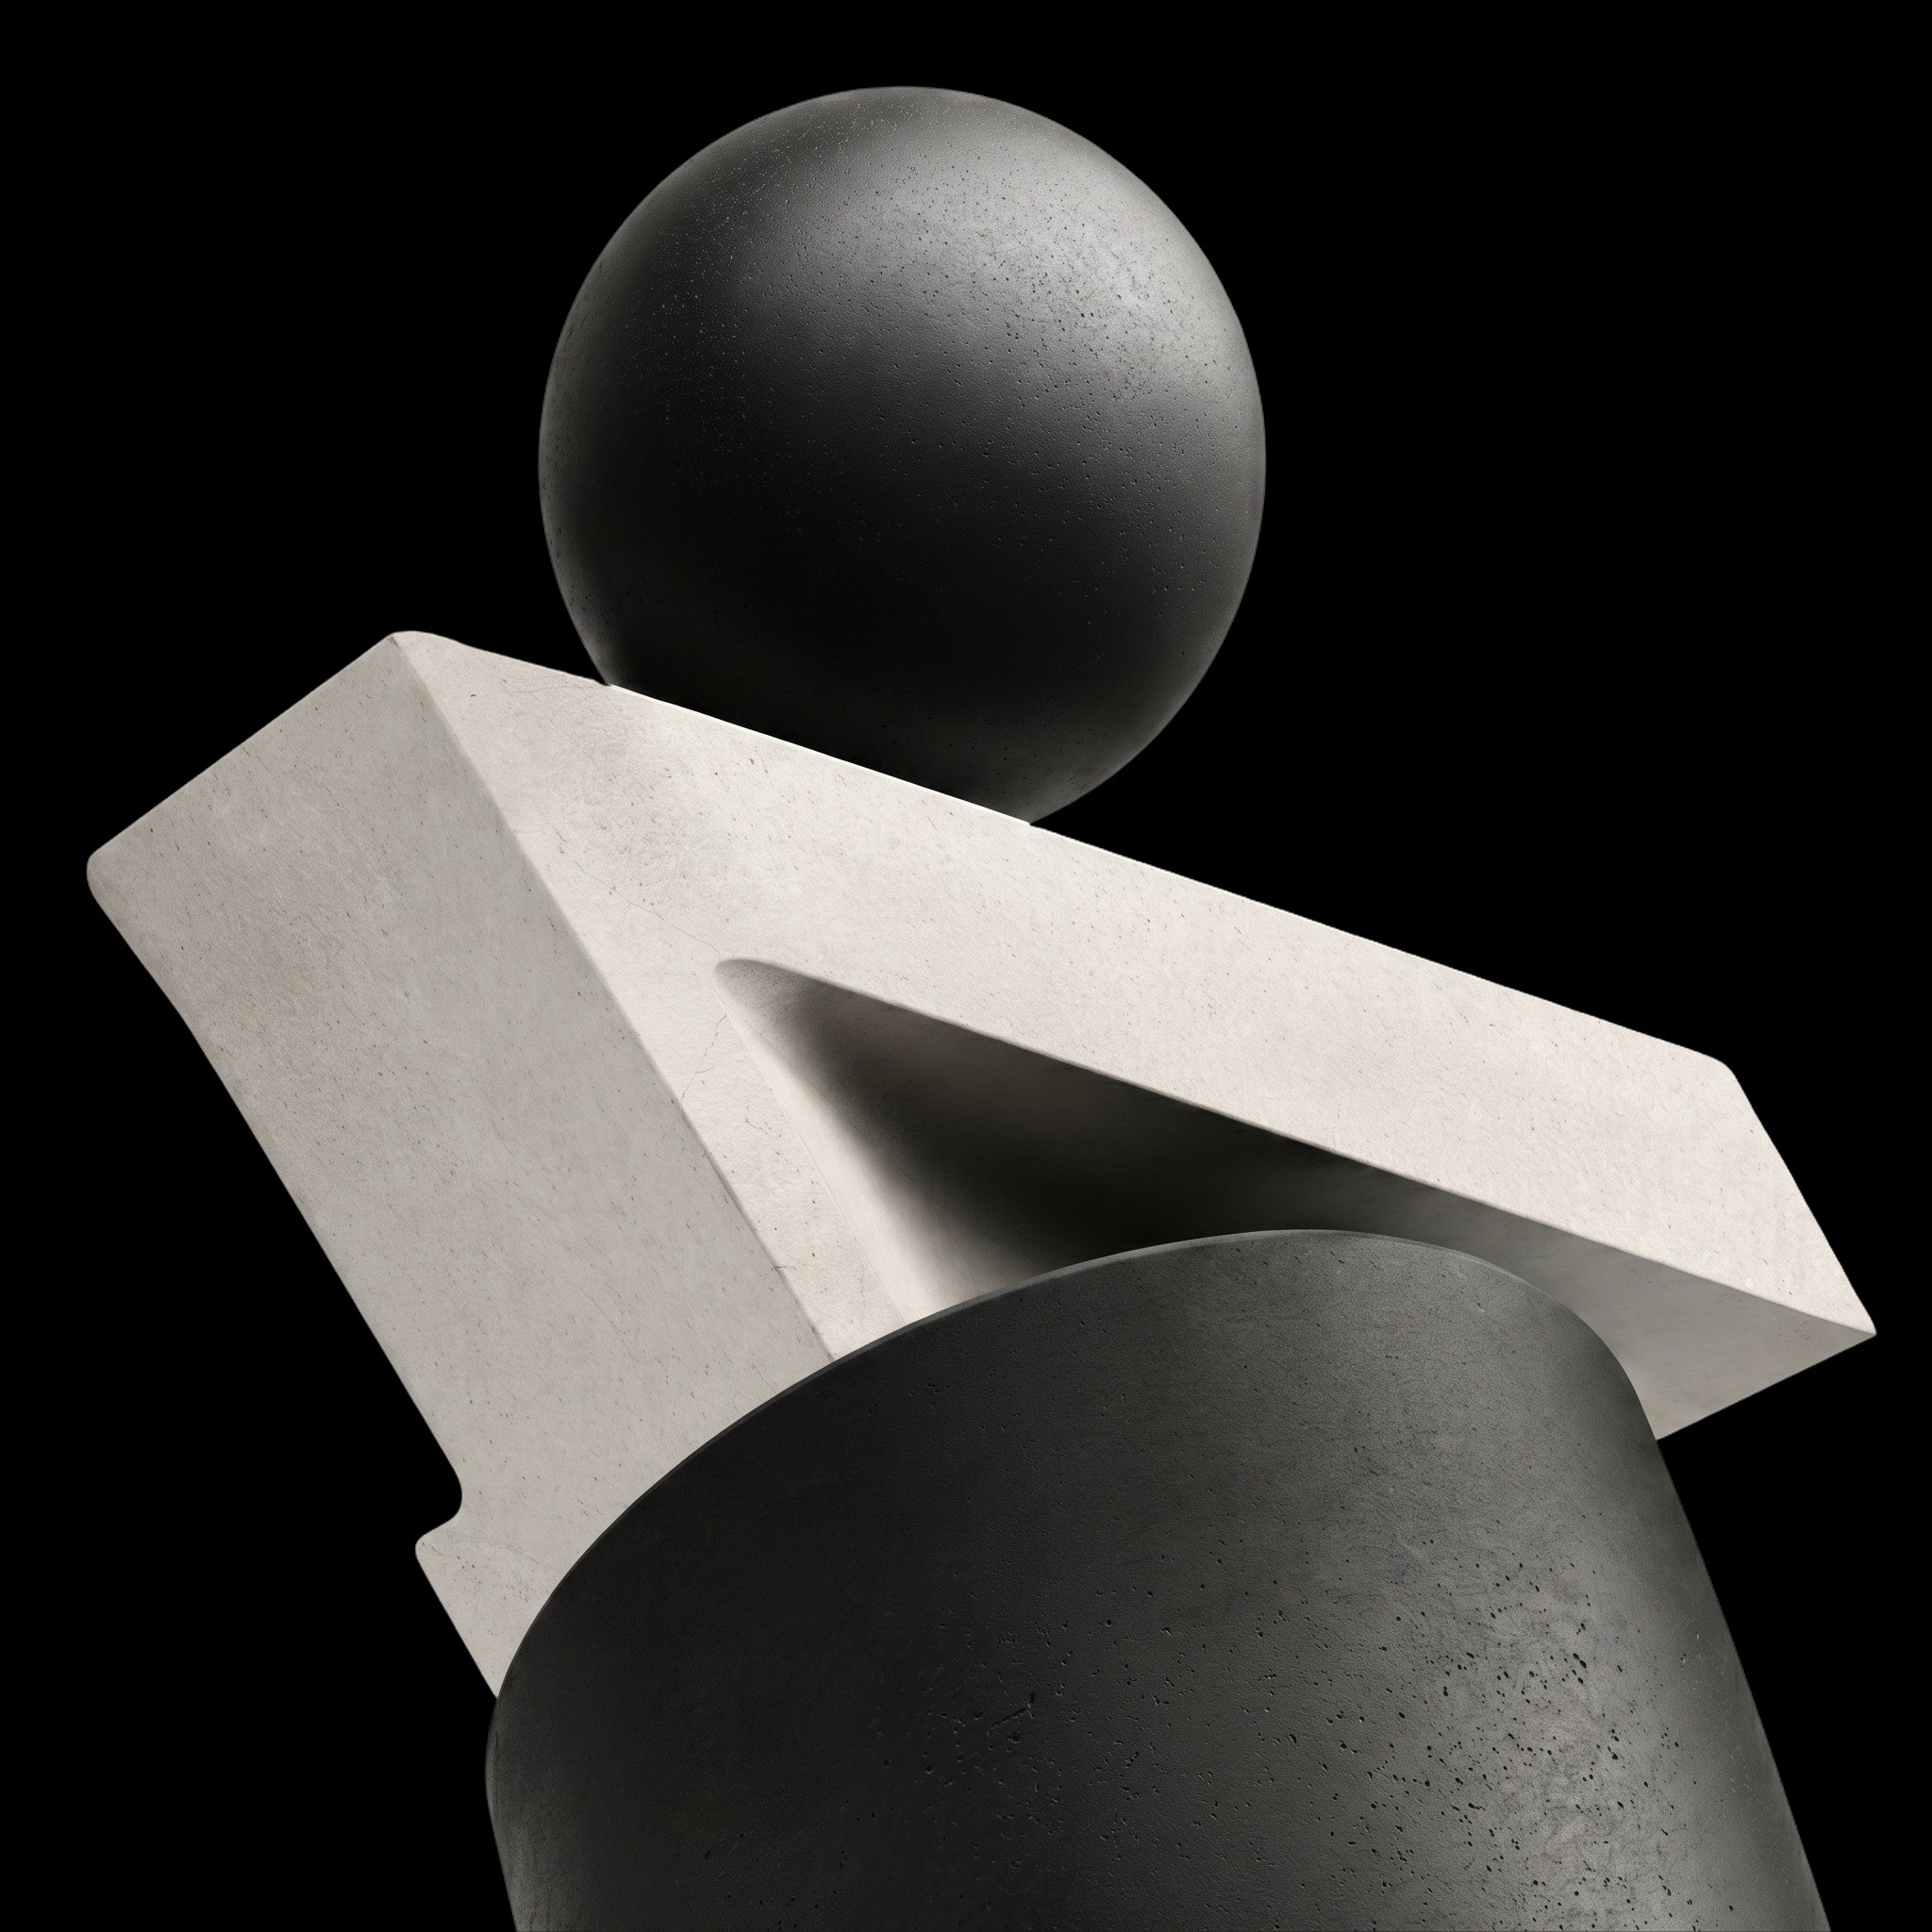
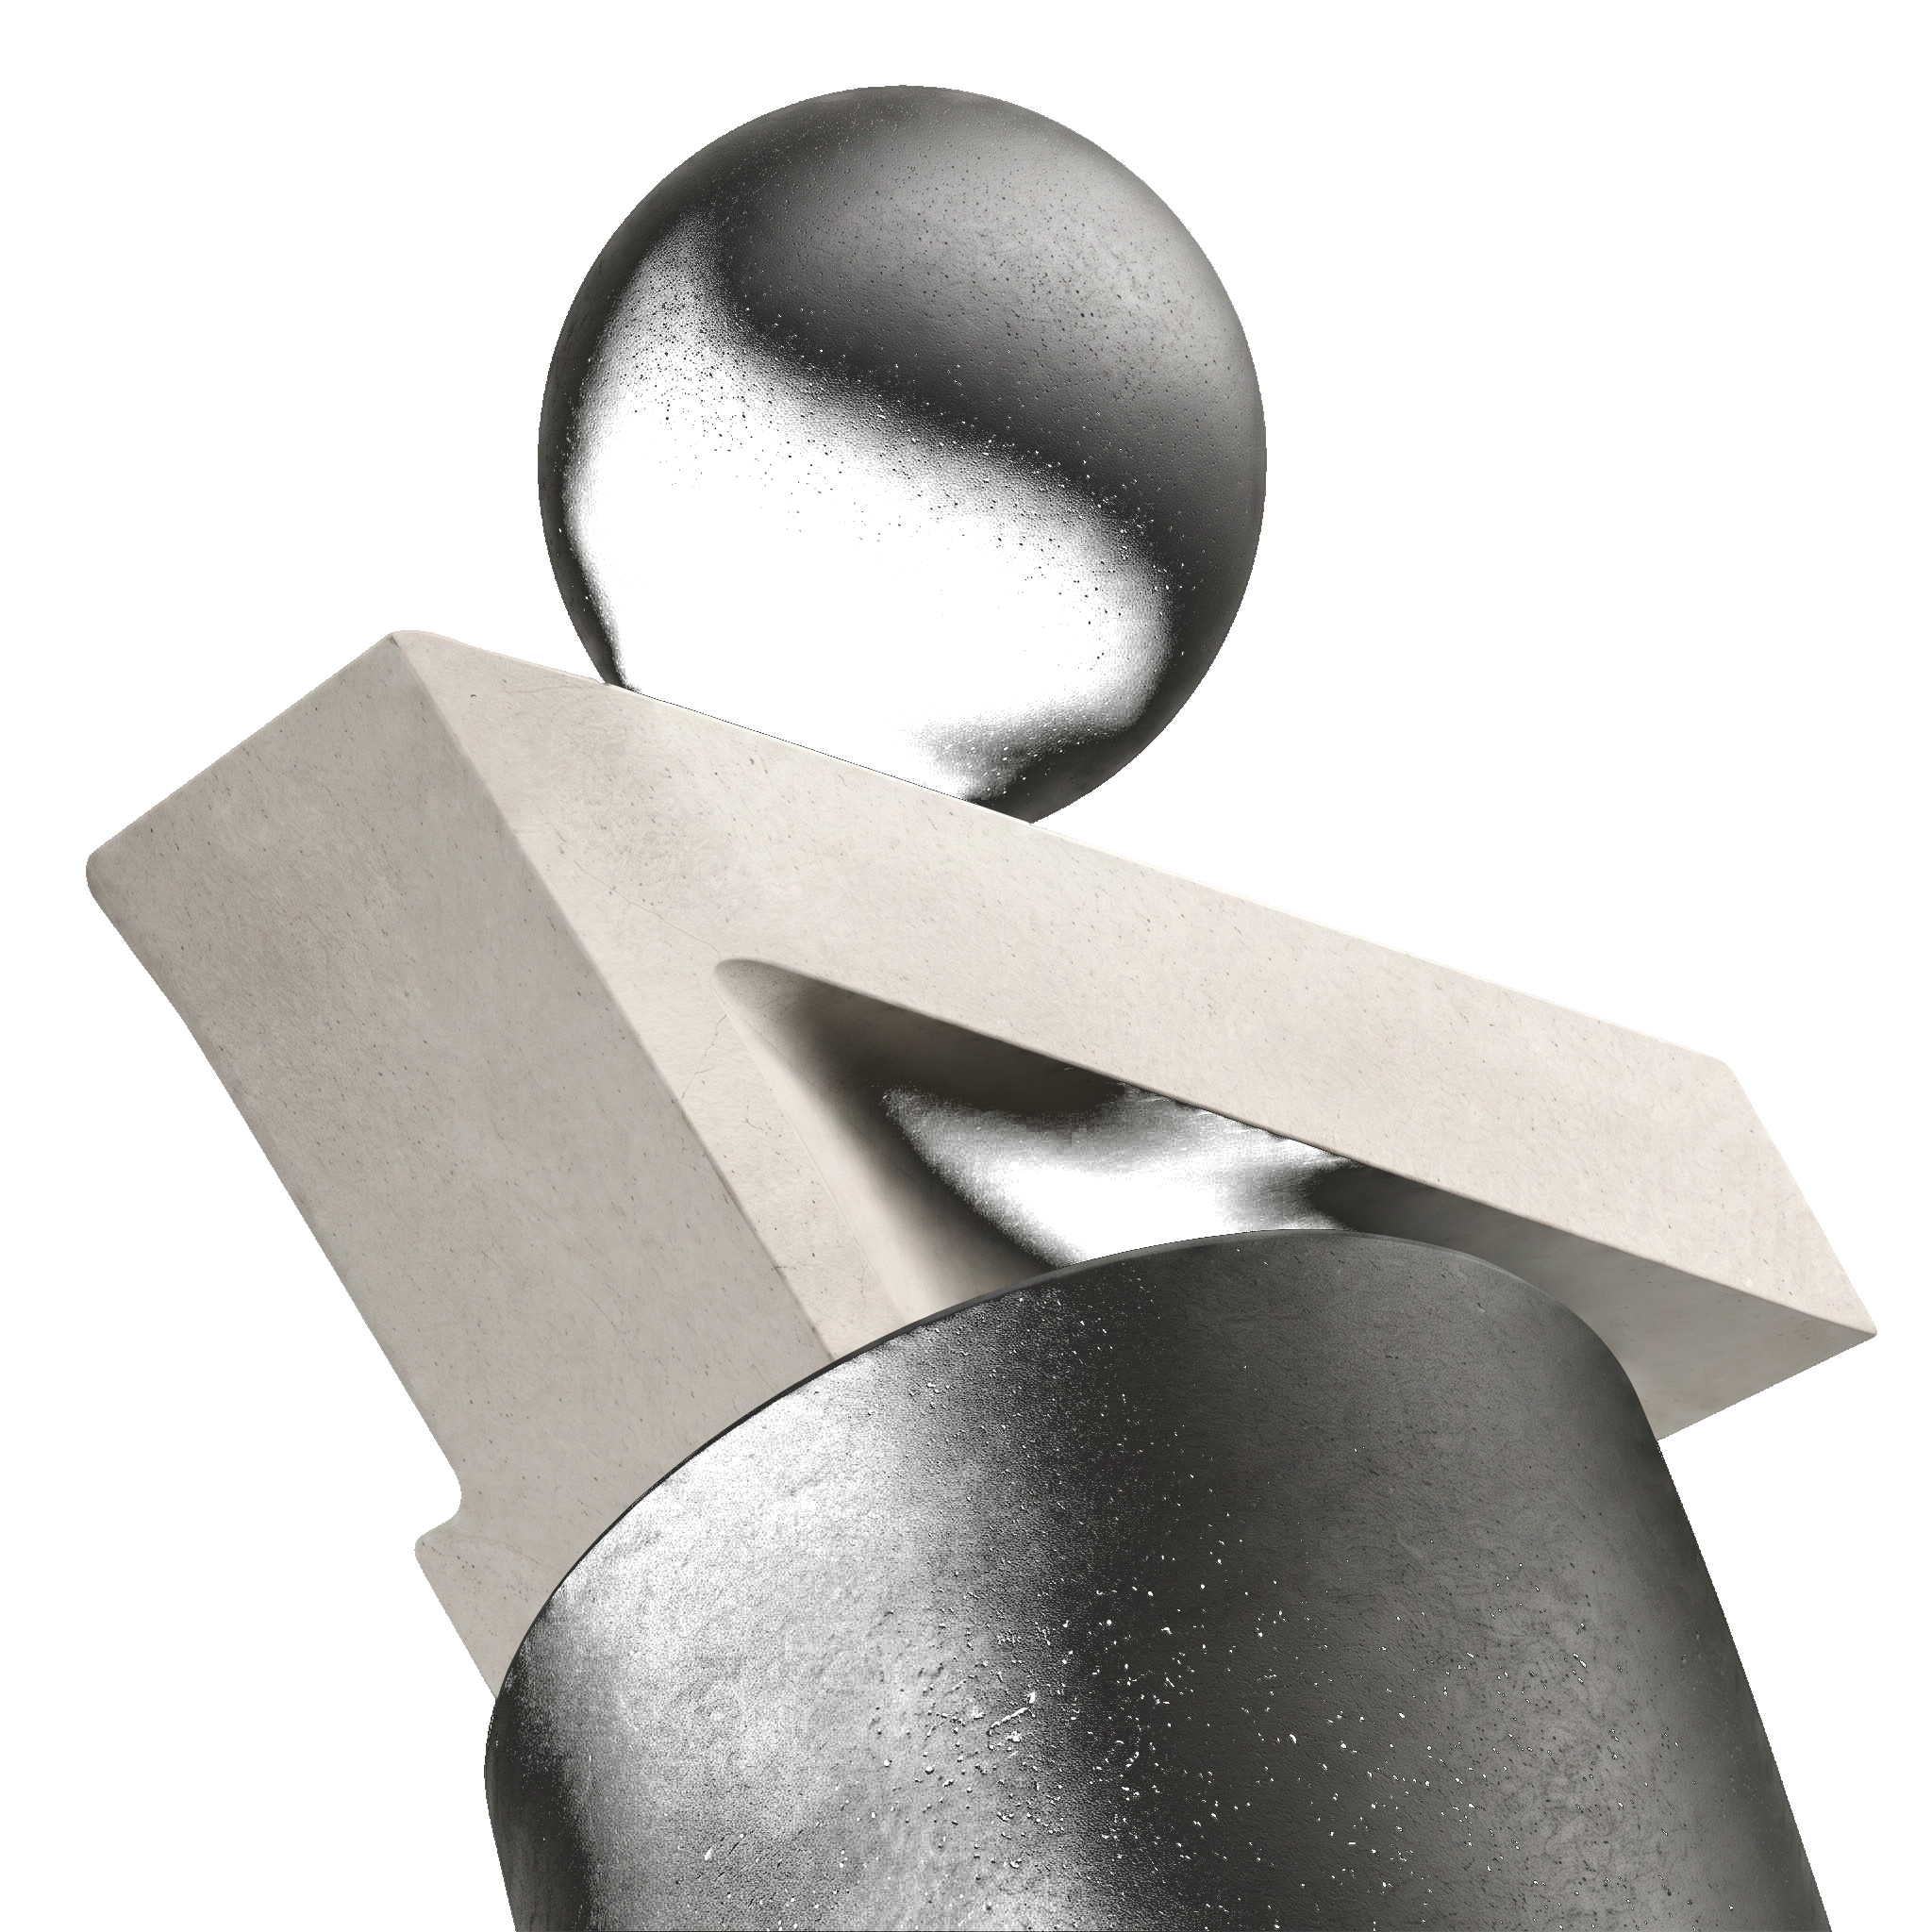
fix: remove black background from hero image using alpha masking

diff --git a/styles.css b/styles.css
@@ -1097,8 +1097,7 @@ html { scroll-behavior: smooth; }
   object-fit: cover;
   object-position: center top;
   display: block;
-  mix-blend-mode: multiply;
-  opacity: 0.92;
+  opacity: 1;
 }
 
 @media (max-width: 600px) {